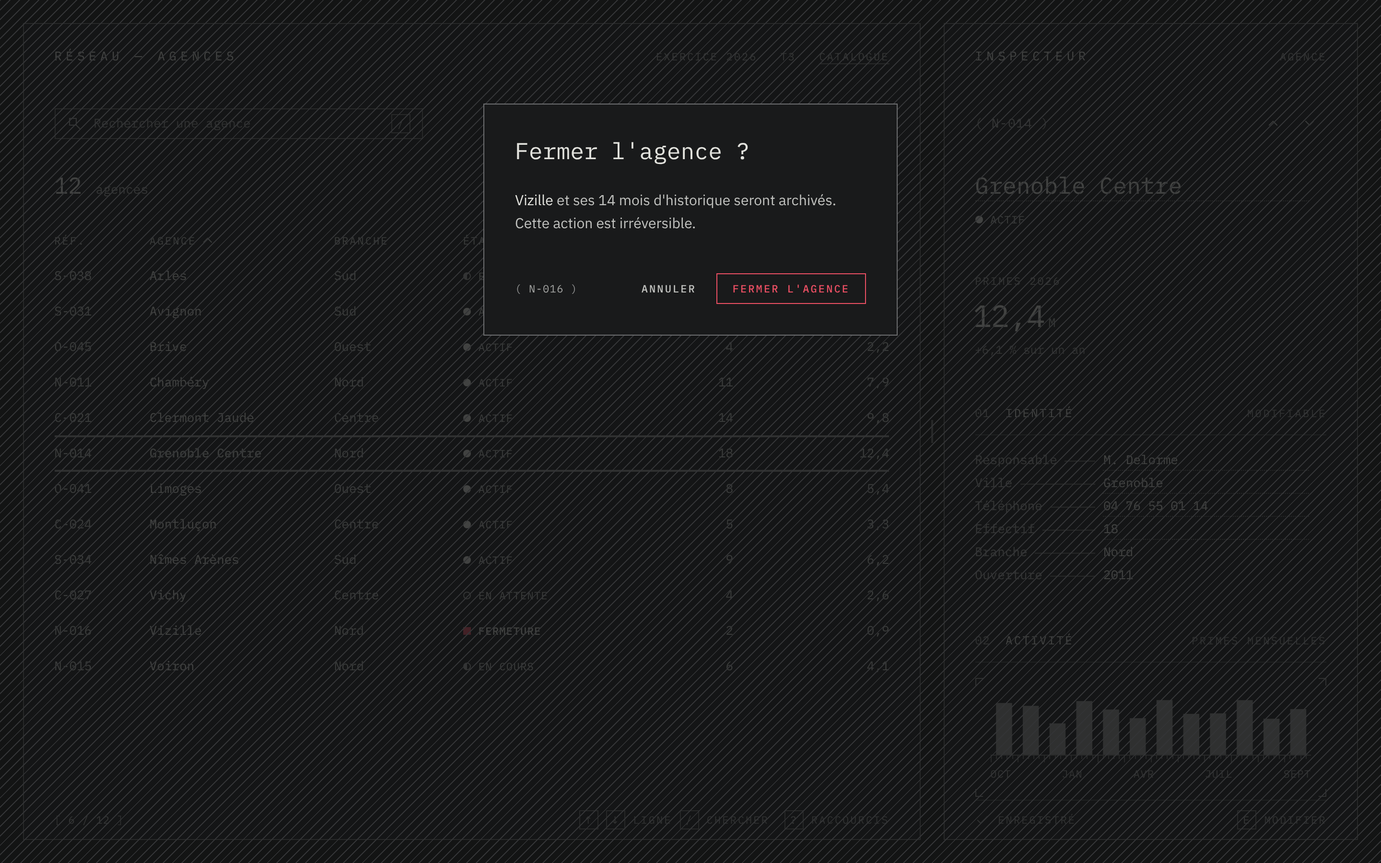
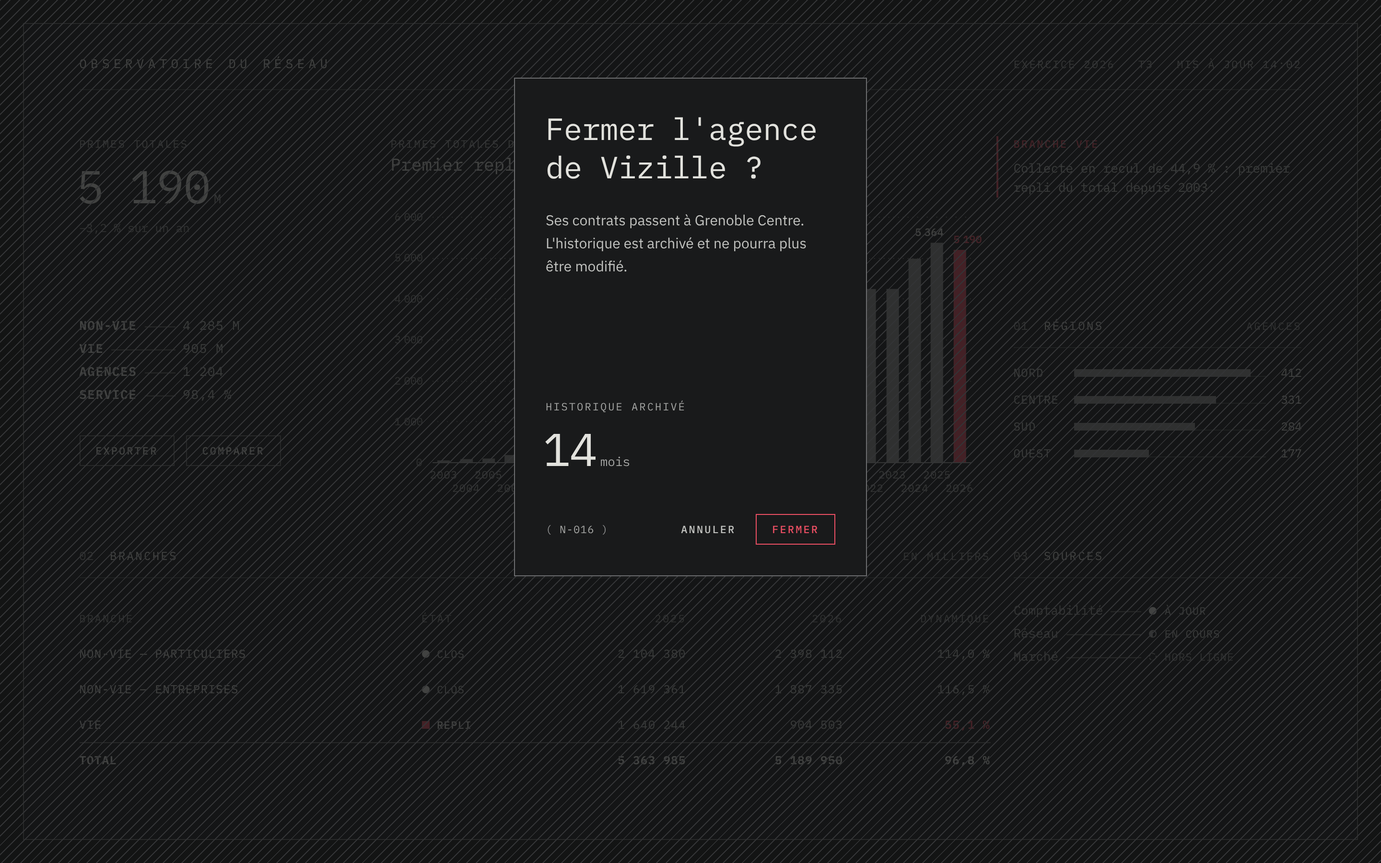
Modale portrait par défaut ; README recentré, avec un GIF
La feuille portrait devient le format de .c-dialog (D-050) ; --small et
--large restent pour les formats couchés. Le README s'ouvre sur un écran
épuré, montre les interactions en GIF (survol, « Aller à », modale,
thèmes) et renvoie onglets, inspecteur et bureau à une section à part.

Claude-Session: https://claude.ai/code/session_01Jzhjh4Bm92CMpkoPPaRiQr

diff --git a/catalogue/assets/search-index.js b/catalogue/assets/search-index.js
@@ -153,10 +153,10 @@ window.MonoSearchIndex = {"pages":[["index.html","Présentation"],["fondations.h
 {"p":3,"id":"c-spinner","y":"composant","t":"Indicateur d'opération — .c-spinner","c":"","s":"États & retours","k":"--gap --space-6 .c-button .c-spinner .l-cluster .t-micro","x":"Un caractère qui tourne — | / - \\ — et non un cercle. Il dit qu'une valeur précise est en cours d'enregistrement et se place à côté d'elle. Enregistrement Envoi Employer Une opération courte déclenchée par l'utilisateur sur un élément : enregistrer, envoyer, vérifier. Éviter Pour un contenu qui se charge (préférer les points de suspension, le filet de progression ou le gabarit) ; seul, sans mot, hors d'une valeur en "},
 {"p":3,"id":"c-console","y":"composant","t":"Console — .c-console","c":"","s":"États & retours","k":"--cmd --console-pad --error --fill --space-4 --warn .c-console .c-console__head .c-console__line .c-console__line--cmd .c-console__line--error .c-console__line--warn .c-console__log .c-console__mark .c-console__prompt .c-console__time","x":"Un journal et une ligne de commande, en creux. Le niveau d'un message se lit à son glyphe et à son ton, jamais à une teinte : un point pour l'information, un triangle pour l'avertissement, un carré — seul signal — pour l'erreur, un chevron pour la commande saisie. Console 4 lignes 14:02:07 · 412 agences chargées en 0,8 s 14:02:09 ▲ 2 branches sans responsable 14:02:31 > exporter 14:02:31 ■ Export impossible : hôte in"},
 {"p":3,"id":"superpositions","y":"rubrique","t":"Superpositions","c":"","s":"","k":".c-section-head .c-section-head__aside .c-section-head__num","x":"Deux natures. La modale interrompt : elle doit le mériter, il n'y en a qu'une à la fois, et elle se détache par un filet, et hachure la page qu'elle bloque : en dessin technique, une zone hachurée est une zone exclue. La fenêtre accompagne : elle ne bloque rien. Ni l'une ni l'autre ne porte d'ombre. Le détail d'un élément ne va dans aucune des deux : il va dans l'inspecteur."},
-{"p":3,"id":"c-dialog","y":"composant","t":"Modale — .c-dialog","c":"","s":"Superpositions","k":"--large --small .c-button .c-button--primary .c-button--quiet .c-dialog .c-dialog__actions .c-dialog__aside .c-dialog__body .c-dialog__title .c-field .c-field__label .c-input .c-notice .c-ref .c-select .c-toast","x":"Une petite page posée sur la page hachurée : même fond, même contour d'un pixel, aucun bandeau ni filet intérieur. Un seul titre, en grand, comme un titre de rapport ; le texte ; puis un pied — la référence à gauche, les actions à droite, la principale tout au bout, là où la lecture s'achève. Seul l'espace sépare. La modale est ancrée au tiers haut de l'écran : son bord supérieur ne bouge pas quand le contenu change "},
+{"p":3,"id":"c-dialog","y":"composant","t":"Modale — .c-dialog","c":"","s":"Superpositions","k":"--column --large --small .c-button .c-button--primary .c-button--quiet .c-dialog .c-dialog__actions .c-dialog__aside .c-dialog__body .c-dialog__title .c-field .c-field__label .c-input .c-notice .c-ref .c-select .c-toast","x":"Une feuille posée sur la page hachurée, plus haute que large — le format A, celui d'une page ou d'une étiquette, pas d'une boîte de dialogue. Même fond et même contour que la page, aucun bandeau ni filet intérieur. Un seul titre, en haut, en grand ; le texte ou les champs ; le vide ; puis le pied — la référence à gauche, les actions à droite, la principale tout au bout. Modifier l'agence Modifier l'agence Nom Branche"},
 {"p":3,"id":"c-dialog--small","y":"composant","t":"Confirmation — .c-dialog--small","c":"","s":"Superpositions","k":".c-button .c-button--quiet .c-button--signal .c-dialog .c-dialog--small .c-dialog__actions .c-dialog__body .c-dialog__title .t-strong","x":"La forme la plus courte de la modale, pour l'irréversible. Elle dit ce qui sera perdu, en une phrase, et nomme l'objet. Le signal n'est porté que par le bouton : c'est le seul rouge de l'écran. Supprimer l'agence Supprimer l'agence ? Grenoble Centre et ses 14 mois d'historique seront supprimés. Cette action est irréversible. Annuler Supprimer Employer Suppression, écrasement, envoi définitif. Uniquement quand l'actio"},
 {"p":3,"id":"c-menu-contextuel","y":"composant","t":"Menu contextuel et sous-menu — .c-menu__list--context","c":"","s":"Superpositions","k":"--left --x --y .c-icon .c-menu__hint .c-menu__item .c-menu__item--signal .c-menu__label .c-menu__list .c-menu__list--context .c-menu__sep .c-menu__sub","x":"Le clic droit ouvre la même liste que le menu déroulant, posée au pointeur. Une entrée peut ouvrir un sous-menu, sur un seul niveau : il s'aligne sur son entrée et bascule à gauche près du bord de l'écran. Canevas Ajouter Graphique en barres Tableau Chiffre clé Dupliquer ⌘ D Supprimer Suppr Employer Les actions propres à ce que l'on vient de pointer : un objet du canevas, une ligne, une fenêtre. Le titre de groupe ra"},
-{"p":3,"id":"c-dialog--portrait","y":"composant","t":"Modale portrait — .c-dialog--portrait, --column","c":"","s":"Superpositions","k":"--column --large --portrait .c-button .c-button--primary .c-button--quiet .c-button--signal .c-dialog .c-dialog--column .c-dialog--portrait .c-dialog__actions .c-dialog__aside .c-dialog__body .c-dialog__stake .c-dialog__title .c-field .c-field__label .c-input .c-kbd .c-kv .c-kv--plain .c-ref .c-select .c-stat .c-stat--hero .c-stat__label .c-stat__value .l-cluster","x":"Une feuille plus haute que large, au format A (1 : √2). Le titre en haut, en grand ; le pied en bas ; entre les deux, le vide — ou ce qui est en jeu. Trois compositions : le chiffre, l'étiquette, la colonne. Le chiffre L'étiquette La colonne Fermer l'agence de Vizille ? Ses contrats passent à Grenoble Centre. L'historique est archivé et ne pourra plus être modifié. Historique archivé 14 mois N-016 Annuler Fermer Ferm"},
+{"p":3,"id":"c-dialog-compositions","y":"composant","t":"Compositions de modale — __stake, --column","c":"","s":"Superpositions","k":"--column --large .c-button .c-button--primary .c-button--quiet .c-button--signal .c-dialog .c-dialog--column .c-dialog__actions .c-dialog__aside .c-dialog__body .c-dialog__stake .c-dialog__title .c-field .c-field__label .c-input .c-kbd .c-kv .c-kv--plain .c-ref .c-select .c-stat .c-stat--hero .c-stat__label .c-stat__value .l-cluster","x":"Trois façons de composer la feuille. Entre le titre et le pied, le vide — ou ce qui est en jeu : le chiffre, l'étiquette. Et la colonne, pour un formulaire. Le chiffre L'étiquette La colonne Fermer l'agence de Vizille ? Ses contrats passent à Grenoble Centre. L'historique est archivé et ne pourra plus être modifié. Historique archivé 14 mois N-016 Annuler Fermer Fermer l'agence ? Agence Vizille Référence N-016 Branch"},
 {"p":3,"id":"c-window","y":"composant","t":"Fenêtre flottante — .c-window","c":"","s":"Superpositions","k":"--flush --resizable --window .c-button .c-button--quiet .c-icon .c-kbd .c-kv .c-kv--plain .c-window .c-window__bar .c-window__body .c-window__frame .c-window__title","x":"Une petite page posée par-dessus les autres, que l'on déplace par sa barre. Elle n'est pas modale : la page dessous reste utilisable. Elle ne porte aucune ombre ; elle emporte avec elle un liseré de plan de travail, une bande du ton le plus sombre, comme toute page. Raccourcis Ligne suivante ↓ Modifier E Chercher / Employer Un outil que l'on garde sous la main en travaillant : aide, raccourcis, palette, aperçu. L'uti"},
 {"p":3,"id":"c-taskbar","y":"composant","t":"Barre des fenêtres — .c-taskbar","c":"","s":"Superpositions","k":".c-icon .c-taskbar .c-taskbar__group .c-taskbar__group--windows .c-taskbar__item .c-taskbar__meta .l-desk .l-desk--os","x":"Dans un bureau, la page du bas : le lanceur à gauche, les fenêtres ouvertes au milieu, l'état à droite. La fenêtre active n'y change que de contour — un trait de 2 px dessus ; une fenêtre réduite a un contour tireté. Ouvrir Agences Inspecteur Console 3 fenêtres 14:02 Employer Uniquement en version bureau ( .l-desk--os ), où les fenêtres sont les pages. Un clic sur une fenêtre la ramène devant ; un clic sur la fenêtre"},
 {"p":3,"id":"c-canvas","y":"composant","t":"Canevas — .c-canvas","c":"","s":"Superpositions","k":"--grid --iw --ix --iy --x --y --z .c-canvas .c-canvas__body .c-canvas__head .c-canvas__item .c-canvas__plane .c-stat .c-stat--compact .c-stat__label .c-stat__value .t-soft","x":"Une surface libre où poser des représentations : graphique, tableau, chiffre, note. Sa trame de points donne le pas de la grille sur laquelle les objets s'aimantent. Un objet sélectionné ne change que de contour. Chiffre clé R01 Primes totales 5 190 M Note R02 Vérifier le repli de la branche vie avant la clôture. Employer Composer librement une vue à partir de plusieurs représentations d'une même donnée, les comparer"},

diff --git a/catalogue/composants.html b/catalogue/composants.html
@@ -1107,7 +1107,7 @@
 
           <div class="cat-sub" id="c-dialog" data-search="composant">
             <h3>Modale — .c-dialog</h3>
-            <p>Une petite page posée sur la page hachurée : même fond, même contour d'un pixel, aucun bandeau ni filet intérieur. Un seul titre, en grand, comme un titre de rapport ; le texte ; puis un pied — la référence à gauche, les actions à droite, la principale tout au bout, là où la lecture s'achève. Seul l'espace sépare. La modale est ancrée au tiers haut de l'écran : son bord supérieur ne bouge pas quand le contenu change de hauteur.</p>
+            <p>Une feuille posée sur la page hachurée, plus haute que large — le format A, celui d'une page ou d'une étiquette, pas d'une boîte de dialogue. Même fond et même contour que la page, aucun bandeau ni filet intérieur. Un seul titre, en haut, en grand ; le texte ou les champs ; le vide ; puis le pied — la référence à gauche, les actions à droite, la principale tout au bout.</p>
             <div class="cat-demo" data-code>
               <button class="c-button" type="button" onclick="document.getElementById('demo-dialog').showModal()">Modifier l'agence</button>
               <dialog class="c-dialog" id="demo-dialog" aria-labelledby="demo-dialog-title">
@@ -1132,12 +1132,12 @@
               </dialog>
             </div>
             <dl class="cat-spec">
-              <div><dt>Anatomie</dt><dd><code>__title</code> : le seul titre, en corps de titre (24 px), bas de casse · <code>__body</code> : la prose en sans-serif de lecture, les champs ensuite ; il défile seul, et un filet n'apparaît qu'à la limite d'un contenu qui dépasse · <code>__actions</code> : à gauche <code>__aside</code> (référence ou touche), à droite « Annuler » en bouton discret puis l'action principale.</dd></div>
+              <div><dt>Anatomie</dt><dd><code>__title</code> : le seul titre, en corps d'écran (32 px), bas de casse, sur deux lignes s'il le faut · <code>__body</code> : la prose en sans-serif de lecture, les champs ensuite ; il défile seul, et un filet n'apparaît qu'à la limite d'un contenu qui dépasse · <code>__actions</code> : à gauche <code>__aside</code> (référence ou touche), à droite « Annuler » en bouton discret puis l'action principale.</dd></div>
               <div><dt>Ce qu'elle n'a pas</dt><dd>Ni bandeau, ni surtitre, ni croix dans l'angle, ni pied séparé par un filet, ni fond plus clair que la page. Échap et « Annuler » ferment. C'est la page hachurée dessous qui dit « modale », pas son habillage.</dd></div>
               <div><dt>Employer</dt><dd>Une tâche courte et autonome qui exige une réponse avant de continuer : modifier un objet, confirmer une action irréversible.</dd></div>
               <div><dt>Éviter</dt><dd>Pour informer (préférer <code>.c-notice</code> ou <code>.c-toast</code>), pour un formulaire de plus de cinq champs (une page), pour consulter un détail sans quitter la liste (un inspecteur). Jamais de modale ouverte depuis une modale.</dd></div>
               <div><dt>Titre et actions</dt><dd>Le titre est un verbe et son objet (« Modifier l'agence »). Le bouton principal reprend ce verbe, jamais « OK ». Deux actions, trois au plus.</dd></div>
-              <div><dt>Tailles</dt><dd><code>--small</code> 27 rem · défaut 32 rem · <code>--large</code> 48 rem. Hauteur limitée à 76 % de l'écran.</dd></div>
+              <div><dt>Tailles</dt><dd>Défaut : feuille de 23 rem, 1 : √2 · <code>--column</code> : même largeur, toute la hauteur · <code>--small</code> (27 rem) et <code>--large</code> (48 rem) : formats couchés, pour une confirmation d'une phrase et pour un contenu large.</dd></div>
               <div><dt>Accessibilité</dt><dd><code>showModal()</code> piège le focus et rend la page inerte ; Échap ferme ; <code>aria-labelledby</code> pointe le titre ; le focus revient à l'élément déclencheur.</dd></div>
             </dl>
           </div>
@@ -1198,16 +1198,16 @@
             </dl>
           </div>
 
-          <div class="cat-sub" id="c-dialog--portrait" data-search="composant">
-            <h3>Modale portrait — .c-dialog--portrait, --column</h3>
-            <p>Une feuille plus haute que large, au format A (1 : √2). Le titre en haut, en grand ; le pied en bas ; entre les deux, le vide — ou ce qui est en jeu. Trois compositions : le chiffre, l'étiquette, la colonne.</p>
+          <div class="cat-sub" id="c-dialog-compositions" data-search="composant">
+            <h3>Compositions de modale — __stake, --column</h3>
+            <p>Trois façons de composer la feuille. Entre le titre et le pied, le vide — ou ce qui est en jeu : le chiffre, l'étiquette. Et la colonne, pour un formulaire.</p>
             <div class="cat-demo" data-code>
               <div class="l-cluster">
                 <button class="c-button" type="button" onclick="document.getElementById('demo-portrait-a').showModal()">Le chiffre</button>
                 <button class="c-button" type="button" onclick="document.getElementById('demo-portrait-b').showModal()">L'étiquette</button>
                 <button class="c-button" type="button" onclick="document.getElementById('demo-portrait-c').showModal()">La colonne</button>
               </div>
-              <dialog class="c-dialog c-dialog--portrait" id="demo-portrait-a" aria-labelledby="demo-portrait-a-title">
+              <dialog class="c-dialog" id="demo-portrait-a" aria-labelledby="demo-portrait-a-title">
                 <h3 class="c-dialog__title" id="demo-portrait-a-title">Fermer l'agence de Vizille ?</h3>
                 <form method="dialog" style="display: contents">
                   <div class="c-dialog__body">
@@ -1226,7 +1226,7 @@
                   </div>
                 </form>
               </dialog>
-              <dialog class="c-dialog c-dialog--portrait" id="demo-portrait-b" aria-labelledby="demo-portrait-b-title">
+              <dialog class="c-dialog" id="demo-portrait-b" aria-labelledby="demo-portrait-b-title">
                 <h3 class="c-dialog__title" id="demo-portrait-b-title">Fermer l'agence ?</h3>
                 <form method="dialog" style="display: contents">
                   <div class="c-dialog__body">
@@ -1266,11 +1266,11 @@
               </dialog>
             </div>
             <dl class="cat-spec">
-              <div><dt>Le chiffre</dt><dd><code>--portrait</code> avec un <code>.c-stat--hero</code> dans <code>__stake</code>. Ce que l'action engage, en un nombre, juste au-dessus du bouton. Pour une confirmation dont la conséquence se mesure.</dd></div>
-              <div><dt>L'étiquette</dt><dd><code>--portrait</code> avec un <code>.c-kv</code> : la fiche de l'objet, à filets conducteurs, comme une étiquette technique. Pour vérifier que l'on agit sur le bon objet.</dd></div>
+              <div><dt>Le chiffre</dt><dd>Un <code>.c-stat--hero</code> dans <code>__stake</code>. Ce que l'action engage, en un nombre, juste au-dessus du bouton. Pour une confirmation dont la conséquence se mesure.</dd></div>
+              <div><dt>L'étiquette</dt><dd>Un <code>.c-kv</code> : la fiche de l'objet, à filets conducteurs, comme une étiquette technique. Pour vérifier que l'on agit sur le bon objet.</dd></div>
               <div><dt>La colonne</dt><dd><code>--column</code> : toute la hauteur de l'écran, centrée. Les champs se remplissent de haut en bas, le pied ne bouge pas, la position dans la suite se lit entre crochets. Pour un formulaire de quatre à huit champs, ou en deux temps.</dd></div>
               <div><dt>__stake</dt><dd>Poussé au bas du corps. Une seule chose : un chiffre, ou une phrase. C'est la dernière chose lue avant le bouton.</dd></div>
-              <div><dt>Éviter</dt><dd>Remplir le vide du milieu : il fait partie de la composition. Un titre de plus de trois lignes. Le format portrait pour un tableau ou un contenu large (<code>--large</code>).</dd></div>
+              <div><dt>Éviter</dt><dd>Remplir le vide du milieu : il fait partie de la composition. Un titre de plus de trois lignes. La feuille pour un tableau ou un contenu large : c'est le rôle de <code>--large</code>.</dd></div>
             </dl>
           </div>
 

diff --git a/src/components.css b/src/components.css
@@ -296,36 +296,30 @@ th[aria-sort="ascending"] .c-table__sort .c-icon, th[aria-sort="descending"] .c-
 .c-tooltip { display: inline-block; padding: var(--space-2) var(--space-3); background: var(--surface-2); border: var(--hairline) solid var(--line-strong); color: var(--fg-strong); font-size: var(--text-small); line-height: var(--leading-small); max-width: 32ch; }
 .c-toast { display: inline-flex; align-items: baseline; gap: var(--space-4); padding: var(--space-3) var(--space-4); background: var(--surface-2); border: var(--hairline) solid var(--line-strong); border-left: var(--stroke) solid var(--fg-strong); color: var(--fg-strong); font-size: var(--text-small); }
 .c-toast--signal { border-left-color: var(--signal); }
-/* Modale : une petite page posée sur la page hachurée. Même fond et même contour que la page,
-   aucun bandeau, aucun filet intérieur. Un seul titre, en grand, comme un titre de rapport ;
-   le texte ; puis un pied : la référence ou la touche à gauche, les actions à droite, la
-   principale tout au bout — là où la lecture s'achève. Seul l'espace sépare.
-   Ancrée au tiers haut plutôt que centrée : le bord supérieur ne bouge pas quand le contenu
-   change de hauteur. */
-.c-dialog { --dialog-pad: var(--space-6); padding: 0; margin-top: 12vh; width: min(32rem, calc(100vw - 2rem)); max-height: min(76vh, 44rem); background: var(--bg); border: var(--hairline) solid var(--line-strong); color: var(--fg); }
+/* Modale : une feuille posée sur la page hachurée. Plus haute que large (1 : √2, le format A),
+   même fond et même contour que la page, aucun bandeau, aucun filet intérieur. Un seul titre,
+   en haut, en grand ; le texte ; le vide ; puis __stake, ce qui est en jeu ; enfin le pied :
+   la référence ou la touche à gauche, les actions à droite, la principale tout au bout. */
+.c-dialog { --dialog-pad: var(--space-6); padding: 0; margin-top: 9vh; width: min(23rem, calc(100vw - 2rem)); min-height: min(32.5rem, 80vh); max-height: min(84vh, 48rem); background: var(--bg); border: var(--hairline) solid var(--line-strong); color: var(--fg); }
 .c-dialog[open] { display: flex; flex-direction: column; }
 /* Fond d'une modale : la page dessous est hachurée. En dessin technique, une zone hachurée est
    une zone exclue — c'est exactement ce qu'elle est tant que la modale est ouverte. Les hachures
    n'apparaissent nulle part ailleurs. (repeating-linear-gradient ne sert qu'à tracer des traits
    nets d'un pixel : il n'y a aucun dégradé visible.) */
 .c-dialog::backdrop { background-color: color-mix(in srgb, var(--desk) 78%, transparent); background-image: repeating-linear-gradient(135deg, var(--hatch) 0, var(--hatch) 1px, transparent 1px, transparent 7px); }
-.c-dialog--small { width: min(27rem, calc(100vw - 2rem)); }
-.c-dialog--large { width: min(48rem, calc(100vw - 2rem)); }
-/* Portrait : une feuille plus haute que large (1 : √2, le format A). Le titre en haut, en grand,
-   sur deux lignes s'il le faut ; le pied en bas ; entre les deux, le vide — ou ce qui est en jeu.
-     --portrait   la feuille : titre, texte, puis __stake poussé au bas du corps
-     --column     la colonne : toute la hauteur de l'écran, pour un formulaire qui se remplit de haut en bas */
-.c-dialog--portrait, .c-dialog--column { width: min(23rem, calc(100vw - 2rem)); }
-.c-dialog--portrait { min-height: min(32.5rem, 80vh); margin-top: 9vh; }
-.c-dialog--column { height: calc(100vh - 4 * var(--shell-inset)); height: calc(100dvh - 4 * var(--shell-inset)); max-height: none; margin-block: calc(2 * var(--shell-inset)); }
-.c-dialog--portrait .c-dialog__title, .c-dialog--column .c-dialog__title { font-size: var(--text-display); line-height: var(--leading-display); letter-spacing: -0.01em; }
-.c-dialog--portrait .c-dialog__body, .c-dialog--column .c-dialog__body { gap: var(--space-5); }
+/* Formats couchés : --small pour une confirmation d'une phrase, --large pour un contenu large
+   (tableau, « Aller à »). Le titre y revient au corps de titre. */
+.c-dialog--small { width: min(27rem, calc(100vw - 2rem)); min-height: 0; margin-top: 12vh; }
+.c-dialog--large { width: min(48rem, calc(100vw - 2rem)); min-height: 0; margin-top: 12vh; max-height: min(76vh, 44rem); }
+/* --column : la colonne, toute la hauteur de l'écran, pour un formulaire qui se remplit de haut en bas. */
+.c-dialog--column { height: calc(100vh - 4 * var(--shell-inset)); height: calc(100dvh - 4 * var(--shell-inset)); min-height: 0; max-height: none; margin-block: calc(2 * var(--shell-inset)); }
 /* Ce qui est en jeu : le chiffre, la fiche ou la phrase que l'on doit avoir lu avant d'agir.
    Poussé au bas du corps, juste au-dessus des actions. */
 .c-dialog__stake { margin-top: auto; padding-top: var(--space-6); display: flex; flex-direction: column; gap: var(--space-3); }
-.c-dialog__title { flex: none; margin: 0; padding: var(--dialog-pad) var(--dialog-pad) 0; font-size: var(--text-title); line-height: var(--leading-title); color: var(--fg-strong); font-weight: var(--weight-regular); text-wrap: balance; }
+.c-dialog__title { flex: none; margin: 0; padding: var(--dialog-pad) var(--dialog-pad) 0; font-size: var(--text-display); line-height: var(--leading-display); letter-spacing: -0.01em; color: var(--fg-strong); font-weight: var(--weight-regular); text-wrap: balance; }
+.c-dialog--small .c-dialog__title, .c-dialog--large .c-dialog__title { font-size: var(--text-title); line-height: var(--leading-title); letter-spacing: 0; }
 /* Le corps défile seul ; un filet n'apparaît qu'à la limite d'un contenu qui dépasse. */
-.c-dialog__body { --_w: calc(100% - 2 * var(--dialog-pad)); flex: 1; min-height: 0; overflow-y: auto; padding: var(--space-5) var(--dialog-pad) var(--space-2); display: flex; flex-direction: column; gap: var(--space-4); color: var(--fg-soft);
+.c-dialog__body { --_w: calc(100% - 2 * var(--dialog-pad)); flex: 1; min-height: 0; overflow-y: auto; padding: var(--space-5) var(--dialog-pad) var(--space-2); display: flex; flex-direction: column; gap: var(--space-5); color: var(--fg-soft);
   background:
     linear-gradient(var(--bg), var(--bg)) local 0 0 / 100% 1px no-repeat,
     linear-gradient(var(--bg), var(--bg)) local 0 100% / 100% 1px no-repeat,

diff --git a/README.md b/README.md
@@ -4,7 +4,7 @@ Design system monochrome, sobre et technique, pour les interfaces de données,
 les outils et les rapports. Treize gris, une seule couleur, des règles de
 composition — et un catalogue pour les réemployer.
 
-![Une collection et son inspecteur, thème encre](docs/captures/collection.png)
+![Tableau de bord : une encre, des filets, et un seul fait en couleur](docs/captures/tableau-de-bord.png)
 
 > MONO traite l'écran comme une page imprimée : une encre, un papier, des filets,
 > beaucoup de vide — et une seule couleur, gardée pour ce qui ne doit pas être manqué.
@@ -40,12 +40,13 @@ d'arbitrage sont dans [`docs/philosophie.md`](docs/philosophie.md).
 9. **Lisible avant d'être beau.** 11 px au moins, contrastes WCAG contrôlés par
    script. Quand le style et la lisibilité s'opposent, la lisibilité gagne.
 
+## En images
+
 ### Une couleur, et rarement
 
-Sur un écran entier, le signal ne désigne qu'un fait : ici, la branche en repli.
-Tout le reste se distingue par le ton, la graisse et le trait.
-
-![Tableau de bord : une seule barre et un seul chiffre en signal](docs/captures/tableau-de-bord.png)
+Sur l'écran ci-dessus, le signal ne désigne qu'un fait : la branche en repli.
+Tout le reste se distingue par le ton, la graisse et le trait. Un écran sans
+aucune couleur est l'état normal du système.
 
 ### Encre et papier
 
@@ -54,36 +55,56 @@ porte la masse sombre sur le papier.
 
 ![Rapport, thème papier](docs/captures/rapport-papier.png)
 
-### La page, ses onglets, son inspecteur
+### Le survol annonce, la modale hachure
 
-Toute page a un contour et repose sur un plan de travail uni. L'écran ne défile
-jamais : c'est le contenu de la page qui défile. La navigation s'écrit en mots.
-Le détail d'un élément va dans l'inspecteur, séparé par l'espace seul, jamais
-dans une modale. La ligne sélectionnée ne change que de contour.
+Un tableau n'a aucun filet : il en vient un sous la ligne survolée, terminé en
+flèche si le clic mène quelque part. « Aller à » se tape au clavier. Sous une
+modale, la page se hachure — en dessin technique, une zone hachurée est une
+zone exclue. Les deux thèmes s'échangent sans rien déplacer.
 
-![Application à onglets, inspecteur attaché](docs/captures/application-onglets.png)
+![Survol d'un tableau, « Aller à », modale, changement de thème](docs/captures/interactions.gif)
 
-### La modale : une petite page sur une page hachurée
+### La modale est une feuille
 
-Les hachures n'apparaissent qu'ici. En dessin technique, une zone hachurée est
-une zone exclue : c'est l'état de la page tant que la modale est ouverte. La
-modale elle-même n'a ni bandeau, ni croix, ni filet intérieur.
+Plus haute que large, au format d'une page. Un seul titre, le texte, le vide,
+puis ce qui est en jeu juste au-dessus des actions : un chiffre, ou la fiche de
+l'objet comme sur une étiquette technique.
 
-![Confirmation sur la page hachurée](docs/captures/modale.png)
+| | |
+|---|---|
+| ![Modale avec chiffre, thème encre](docs/captures/modale.png) | ![Modale en étiquette, thème papier](docs/captures/modale-etiquette.png) |
 
 ### Les images sont encrées
 
 Un dessin au trait du système entre tel quel. Une photo est ramenée au gris et
-fondue dans le ton de la page ; tramée si elle pèse encore. Au survol, le filet
-d'une fiche cliquable se termine en flèche : le survol annonce le clic.
+fondue dans le ton de la page ; tramée si elle pèse encore.
 
 ![Fiches avec dessin, image encrée et image tramée, thème papier](docs/captures/images.png)
 
-### Connexion, bureau
+### Une page d'entrée
 
-| | |
-|---|---|
-| ![Écran de connexion](docs/captures/connexion.png) | ![Bureau à fenêtres flottantes](docs/captures/bureau.png) |
+![Écran de connexion](docs/captures/connexion.png)
+
+## Pour les applications
+
+Le système fournit aussi de quoi bâtir un outil complet. Toute page a un
+contour et repose sur un plan de travail uni ; l'écran ne défile jamais, c'est
+le contenu de la page qui défile.
+
+- **Onglets persistants et inspecteur.** La navigation s'écrit en mots. Le
+  détail d'un élément s'ouvre dans la page, séparé par l'espace seul, jamais
+  dans une modale. La ligne sélectionnée ne change que de contour.
+
+  ![Application à onglets, inspecteur attaché](docs/captures/application-onglets.png)
+
+- **Collection et inspecteur épinglé.** Deux pages côte à côte sur le plan de
+  travail, valeurs modifiables en place.
+
+  ![Une collection et son inspecteur](docs/captures/collection.png)
+
+- **Bureau.** Fenêtres flottantes, aimantées, et barre des fenêtres.
+
+  ![Bureau à fenêtres flottantes](docs/captures/bureau.png)
 
 ## En bref
 

diff --git a/docs/decisions.md b/docs/decisions.md
@@ -69,7 +69,8 @@ Les principes eux-mêmes sont dans `philosophie.md` ; ici, c'est leur histoire.
 | D-046 | La modale est une petite page, sans habillage | amendée par D-048 |
 | D-047 | Le filet de survol d'une ligne cliquable dépasse à droite | en vigueur |
 | D-048 | Modale éditoriale : un seul titre, actions à droite | en vigueur |
-| D-049 | Modales portrait : le chiffre, l'étiquette, la colonne | proposée, choix à faire |
+| D-049 | Modales portrait : le chiffre, l'étiquette, la colonne | adoptée, voir D-050 |
+| D-050 | La modale est portrait par défaut | en vigueur |
 
 ---
 
@@ -441,7 +442,7 @@ Les principes eux-mêmes sont dans `philosophie.md` ; ici, c'est leur histoire.
 
 ## D-049 — Modales portrait : le chiffre, l'étiquette, la colonne
 
-- **Date** : 2026-11-12 · **Statut** : proposée, choix à faire · **Demandée par** : le commanditaire (« plus hautes que larges, sois créatif »)
+- **Date** : 2026-11-12 · **Statut** : adoptée, voir D-050 · **Demandée par** : le commanditaire (« plus hautes que larges, sois créatif »)
 - **Proposition** (de Claude) : une feuille au format A (1 : √2, 23 rem de large). Titre en haut en corps d'écran (32 px), sur deux lignes s'il le faut ; pied en bas ; le vide au milieu fait partie de la composition. Un bloc `__stake`, poussé au bas du corps, porte ce qui est en jeu : c'est la dernière chose lue avant le bouton. Trois compositions :
   - **le chiffre** — `--portrait` + un `.c-stat--hero` : ce que l'action engage, en un nombre ;
   - **l'étiquette** — `--portrait` + un `.c-kv` à filets conducteurs : la fiche de l'objet, comme une étiquette technique ;
@@ -449,3 +450,10 @@ Les principes eux-mêmes sont dans `philosophie.md` ; ici, c'est leur histoire.
 - **Raison** : les références sont des pages et des étiquettes, pas des boîtes de dialogue ; le format portrait est le leur. Il laisse aussi la page hachurée visible des deux côtés.
 - **À trancher** : le portrait devient-il le format par défaut de toute modale, ou reste-t-il une variante à côté du format paysage de D-048 ? La colonne ressemble-t-elle trop au tiroir écarté en D-020 ? Elle est centrée et modale, mais occupe la même hauteur.
 - **Limite** : le format ne convient pas à un contenu large (tableau, « Aller à ») : `--large` reste.
+
+## D-050 — La modale est portrait par défaut
+
+- **Date** : 2026-11-12 · **Statut** : en vigueur · **Validée par** : le commanditaire (« ok pour la modale ») · **Suite de** : D-049
+- **Décision** : les trois compositions de D-049 sont adoptées et la feuille portrait devient le format de `.c-dialog` sans modificateur : 23 rem de large, 1 : √2, titre en 32 px. `--column` garde la pleine hauteur. Les formats couchés restent en modificateurs : `--small` pour une confirmation d'une phrase, `--large` pour un contenu large (« Aller à », tableau). La classe `--portrait` de D-049 n'a plus lieu d'être.
+- **Choix de Claude** sur les deux points laissés ouverts : portrait par défaut ; la colonne est gardée, pour quatre à huit champs — au-delà, une page.
+- **Remplace dans D-048** : les largeurs (32 rem / 27 rem) et le corps du titre (24 px), qui ne valent plus que pour les formats couchés.

diff --git a/docs/composants.md b/docs/composants.md
@@ -107,8 +107,7 @@ Préfixes : `.t-` texte · `.l-` mise en page · `.c-` composant · `.v-` donné
 
 | Composant | Éléments et variantes | Règle d'emploi |
 |---|---|---|
-| `.c-dialog` (`<dialog>`) | `__title`, `__body`, `__actions`, `__aside` ; `--small`, `--large`, `--portrait`, `--column` ; `__stake` | Tâche courte qui exige une réponse. Une petite page sur la page hachurée : un seul titre en grand, la prose, puis le pied — référence à gauche, actions à droite, la principale au bout. Titre = verbe + objet ; le bouton principal répète le verbe |
-| `.c-dialog--portrait`, `--column` | `__stake` (chiffre ou phrase poussé au bas du corps) | Feuille plus haute que large (1 : √2). Le chiffre, l'étiquette (`.c-kv`) ou la colonne pleine hauteur pour un formulaire |
+| `.c-dialog` (`<dialog>`) | `__title`, `__body`, `__stake`, `__actions`, `__aside` ; `--column`, `--small`, `--large` | Tâche courte qui exige une réponse. Une feuille plus haute que large (1 : √2) sur la page hachurée : un seul titre en grand, le texte, `__stake` (le chiffre ou la phrase en jeu) au bas du corps, puis le pied — référence à gauche, actions à droite. `--column` pour un formulaire, `--small` et `--large` couchés |
 | `.c-dialog--small` (confirmation) | — | Irréversible uniquement. Pas de bouton fermer ; focus initial sur « Annuler » ; seul le bouton porte le signal |
 | `.c-window` | `__frame`, `__bar`, `__title`, `__actions`, `__body` (`--flush`) ; `--resizable`, `.is-active`, `.is-maximized`, `.is-minimized` ; `--window`, `--window-height` | Fenêtre flottante non modale : un outil gardé sous la main. Liseré de plan de travail, aucune ombre. Deux au plus |
 
